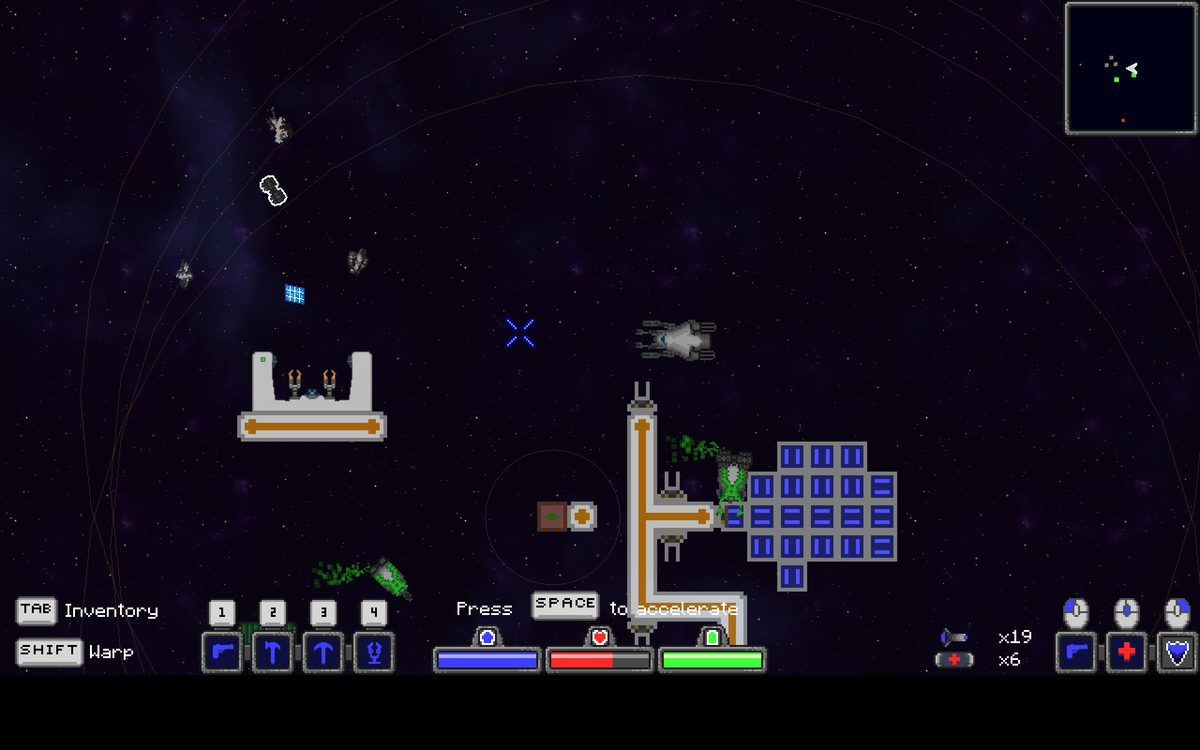
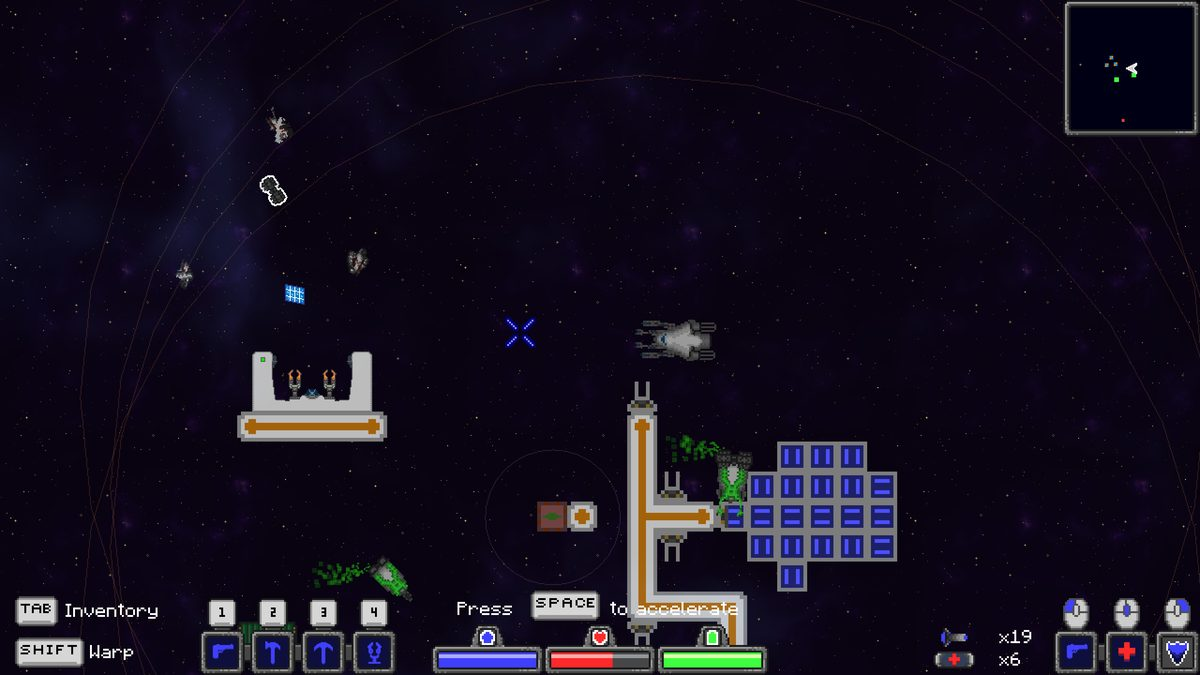
corrected image cropping

diff --git a/projects/solvane/index.html b/projects/solvane/index.html
@@ -84,10 +84,10 @@
 
     <div class="shotframe" style="margin-top:34px">
       <img src="/assets/img/spacegame.jpg"
-           alt="The player ship beside an orbital base built from conveyor belts, solar panel arrays and turrets, with asteroids and drifting wrecks nearby."
-           width="1200" height="750" loading="lazy">
+           alt="The player ship beside an orbital base built from conduits, solar panel arrays and turrets, with asteroids and drifting wrecks nearby."
+           width="1200" height="675" loading="lazy">
     </div>
-    <p class="caption">A base under construction: solar arrays generating power, conduits feeding power to turrets who are covering the approach. The bars along the bottom are Warp Drive, Health and Energy.</p>
+    <p class="caption">A base under construction: solar arrays generating power, conduits feeding power to turrets covering the approach. The bars along the bottom are Warp Drive, Health and Energy.</p>
 
     <h2>What it is now</h2>
     <p>
